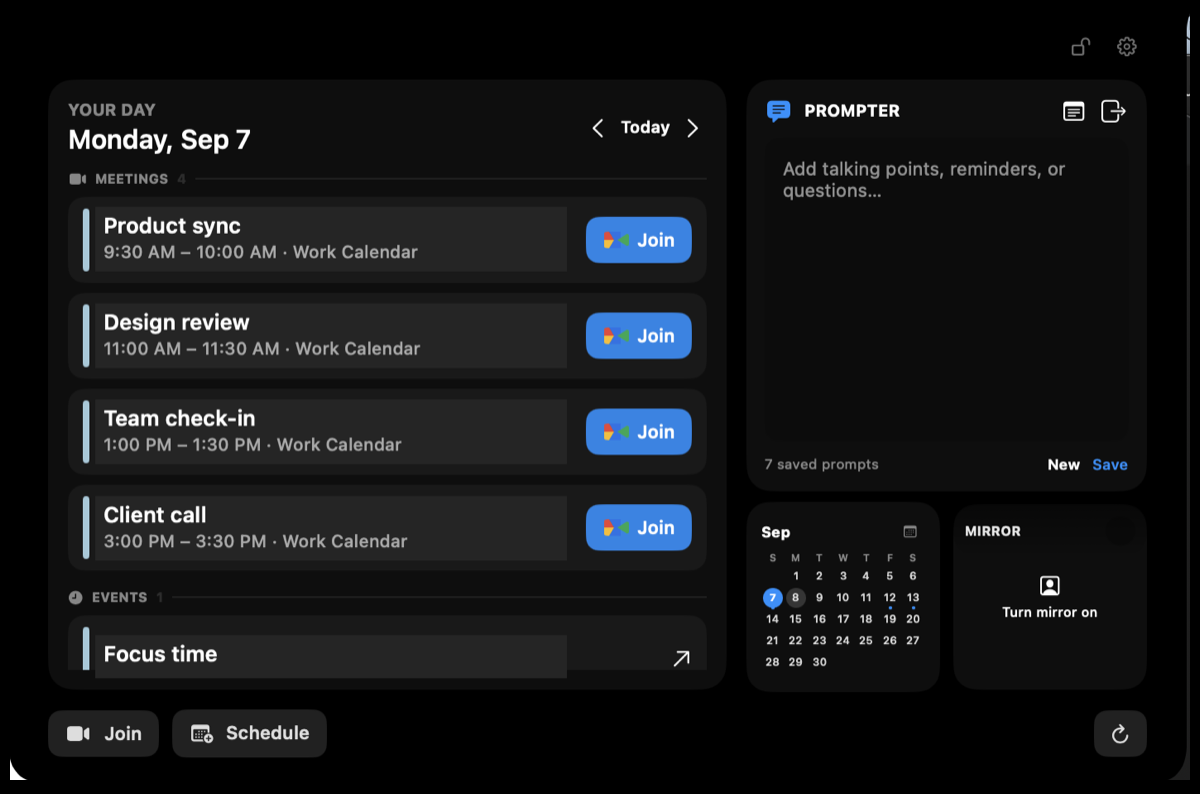
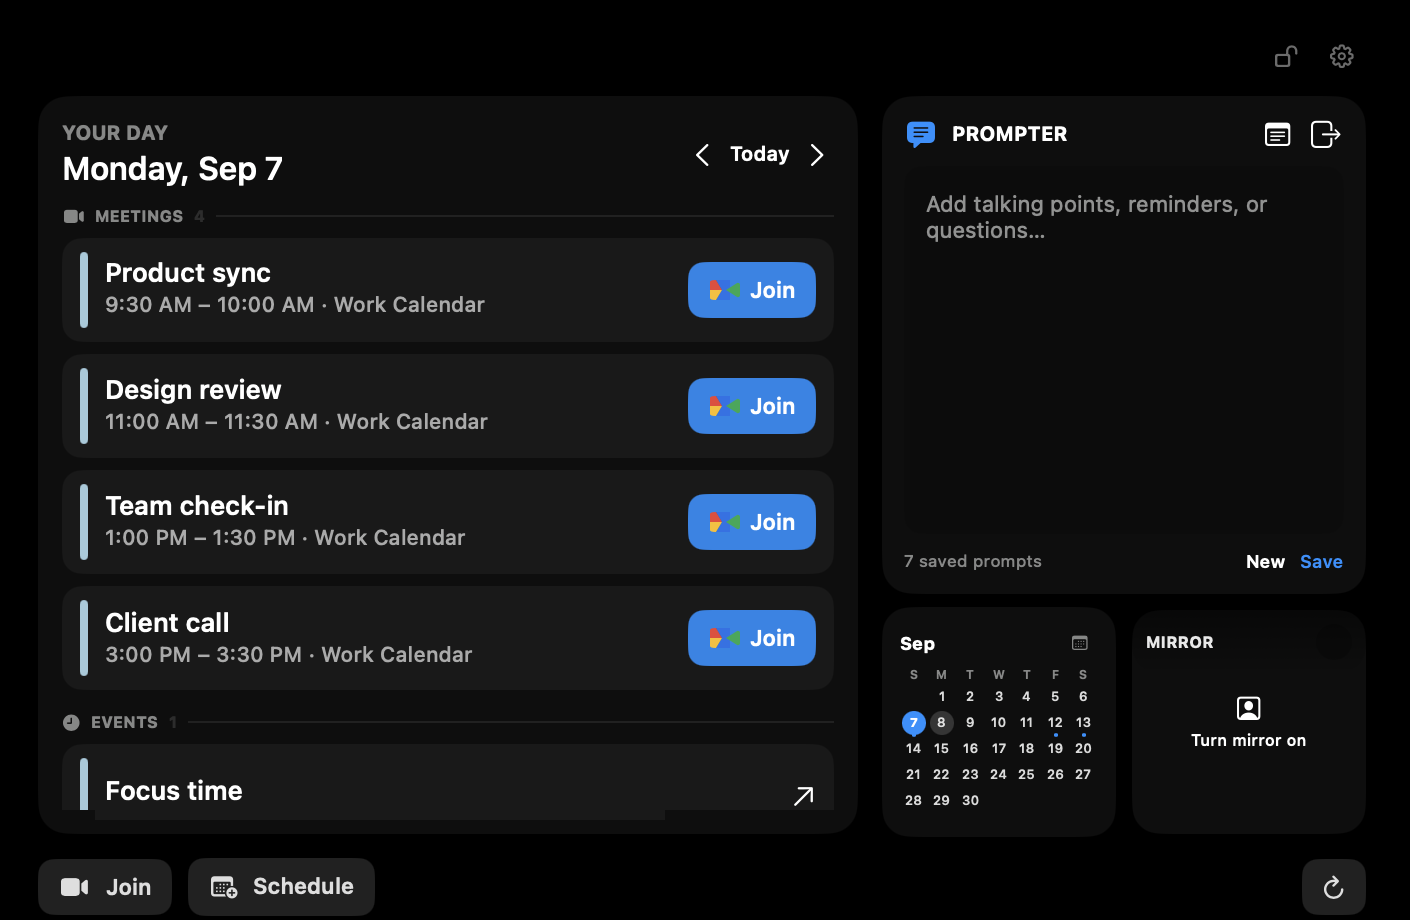
Redesign README with Retina product showcase

diff --git a/README.md b/README.md
@@ -1,22 +1,62 @@
+<div align="center">
+
 # TopNotch
 
-Official downloads for TopNotch, a macOS menu-bar calendar and meeting companion.
+### Your day, meetings, and talking points—right beside the MacBook notch.
 
-## Preview
+TopNotch turns the space around your notch into a focused command center for calendars, video calls, and the moments that matter next.
 
-See your day, join meetings, keep talking points nearby, and schedule a new call directly from the MacBook notch.
+[**Download TopNotch v1.0 →**](https://github.com/dhwani2198/TopNotch-Releases/releases/latest)
+
+Apple Silicon · macOS 15+
+
+</div>
+
+---
+
+## Your day, without breaking focus
+
+See meetings and events in one glance, jump into the right Google Meet, Zoom, or Microsoft Teams call, keep notes nearby, and check the day ahead—all without opening another full-size app.
 
 <p align="center">
-  <img src="assets/topnotch-overview.png" alt="TopNotch expanded dashboard with calendar, meetings, Prompter, mini calendar, and mirror" width="900">
+  <img src="assets/topnotch-overview.png" alt="TopNotch dashboard showing meetings, events, Prompter, mini calendar, mirror, and blue meeting controls" width="1100">
 </p>
 
+## From idea to invite in seconds
+
+Create a meeting, event, or task from the notch. Choose a connected calendar, add guests from your contacts, and attach Google Meet, Zoom, Microsoft Teams, or no video call at all.
+
 <p align="center">
-  <img src="assets/topnotch-schedule.png" alt="TopNotch meeting scheduling view" width="900">
+  <img src="assets/topnotch-schedule.png" alt="TopNotch scheduling interface with a blue Create meeting action" width="1100">
 </p>
+
+## Keep your talking points on screen
+
+Prompter saves notes and reminders inside TopNotch, with history available through Apple Notes. Pull it out into a compact liquid-glass window during a call, then close it back into the notch when you are done.
+
+<p align="center">
+  <img src="assets/topnotch-prompter.png" alt="TopNotch Prompter detached as a compact liquid-glass window on the Mac desktop" width="900">
+</p>
+
+## Know exactly when it is time
+
+When a meeting, event, or task starts, TopNotch briefly traces the notch with the selected accent color. The blue start alert is visible without keeping the dashboard open—and disappears after the moment has passed.
+
+<p align="center">
+  <img src="assets/topnotch-start-alert.png" alt="TopNotch showing a bright blue event-start glow around the closed MacBook notch" width="900">
+</p>
+
+## Made for the calendars and calls you already use
+
+| Calendars | Meetings | Contacts and notes |
+| --- | --- | --- |
+| Apple Calendar | Google Meet | Apple Contacts |
+| Google Calendar | Zoom | Google Contacts |
+| Outlook Calendar | Microsoft Teams | Microsoft Contacts and Apple Notes |
 
 ## Download
 
-Download the newest Apple Silicon DMG from [Releases](https://github.com/dhwani2198/TopNotch-Releases/releases/latest).
+Download the newest Apple Silicon DMG from [**GitHub Releases**](https://github.com/dhwani2198/TopNotch-Releases/releases/latest).
 
 TopNotch currently supports M-series Macs running macOS 15 or newer. Intel Macs are not supported.
 
